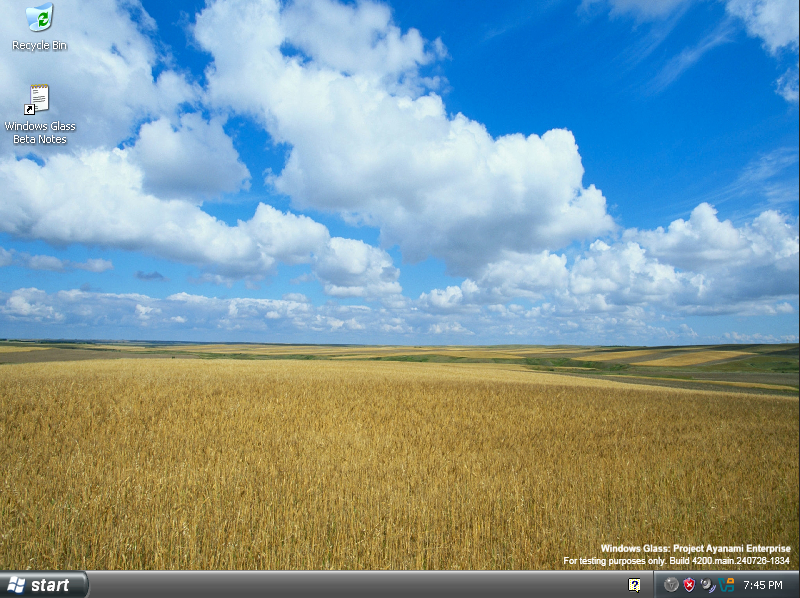
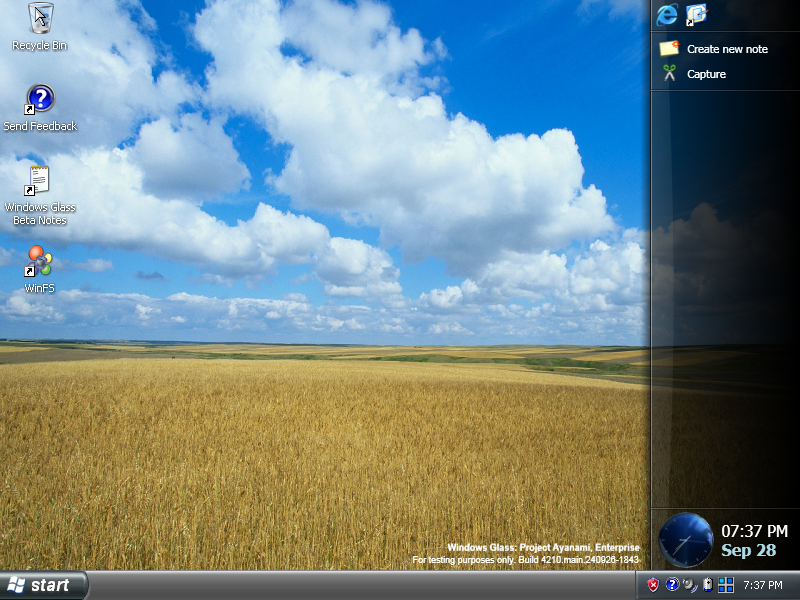
Windows Glass page updates, including a new round of screenshots for archive.org

diff --git a/windowsmods/wingls.html b/windowsmods/wingls.html
@@ -15,16 +15,34 @@
     <meta property="og:site_name" content="w2kbreaker.net">
     <meta property="og:title" content="Windows Glass (w2kbreaker.net)">
     <meta property="og:description" content="Longhorn, complete.">
-    <meta property="og:image" content="https://w2kbreaker.net/windowsmods/glass-logo.png">
+    <meta property="og:image" content="https://w2kbreaker.net/windowsmods/imgs/glass-logo.png">
   </head>
     <body>
-        <main>		
+        <main>
             <header class="holo-actionBar"><button disabled>w2kbreaker's website | Windows Glass</button><button>Navigation</button></header>
             <p>Longhorn, Complete.</p>
 
             <p>Windows XP tranformed to Windows Longhorn, now featuring .NET Framework 2.0 & 3.5, Visual C++ 2005, and more.</p>
-              
-            <p>More information soon...</p>
+
+            <p>Windows Glass is a Windows XP mod that aims to replicate Windows Longhorn without the bugs and instability.</p>
+
+            <p>It is based on the Latest April 2019 updates for Windows XP (Including POSReady 2009 ones) and includes the following features</p>
+            <p>- The Jade and Slate Visual Styles in Professional, Enterprise and Ultimate</p>
+            <p>- The Plex visual style in Starter, Home Basic, Home Advanced and Ultimate</p>
+            <p>- .NET Framework 1.1 to 3.5 and Visual C++ 2005</p>
+            <p>- WinFS</p>
+            <p>- x86 and x64 support</p>
+            <p>- Media Center in Home Advanced and Ultimate (it is installable in Professional but not installed by default)</p>
+            <p>- Wallpapers from Pre and Post reset Longhorn</p>
+            <p>- Areo Transparency and Window FX powered by several programs</p>
+            <p>- And More...</p>
+
+            <p>Download today, if you wish.</p>
+            <a href="https://archive.org/download/wingls_archive/Project%20Ayanami/en_windows_glass_enterprise_x86_dvd_vl_ayanami.4213-REV1.iso"><button>Download latest ISO</button></a>
+
+            <p>Gallery (better version soon)</p>
+            <img src="imgs/Windows_Glass_Desktop.png" alt="Desktop" width="400" height="300"><img src="imgs/Windows_Glass_ReiWallpaper.png" alt="Rei Ayanami wallpaper with Winver" width="400" height="300" /><img src="imgs/Windows_Glass_Aero.png" alt="Aero transparency (has to be manually ran though)" width="400" height="300" /><img src="imgs/Windows_Glass_Pinball.png" alt="Serious gaming." width="400" height="300" />
+            <p></p>
             <a href="http://w2kbreaker.net/windowsmods"><button>Go back</button></a>
         </main>
     </body>
